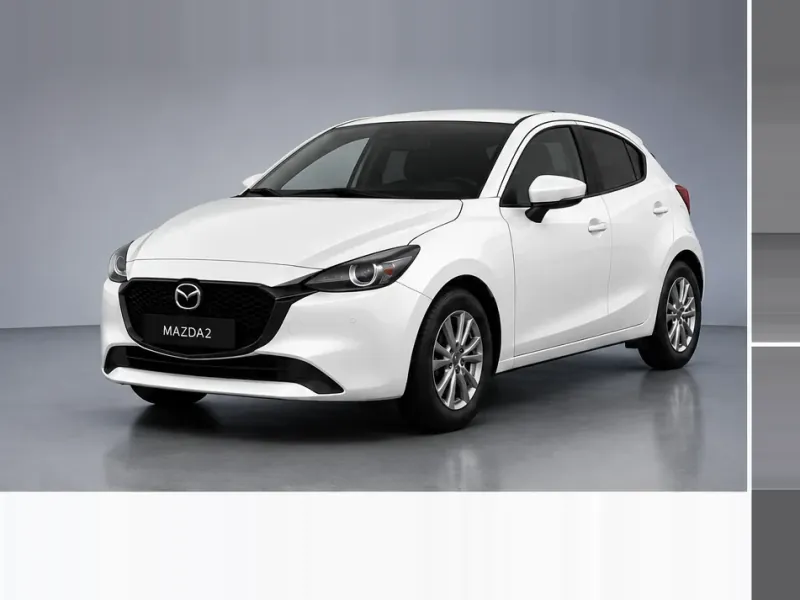
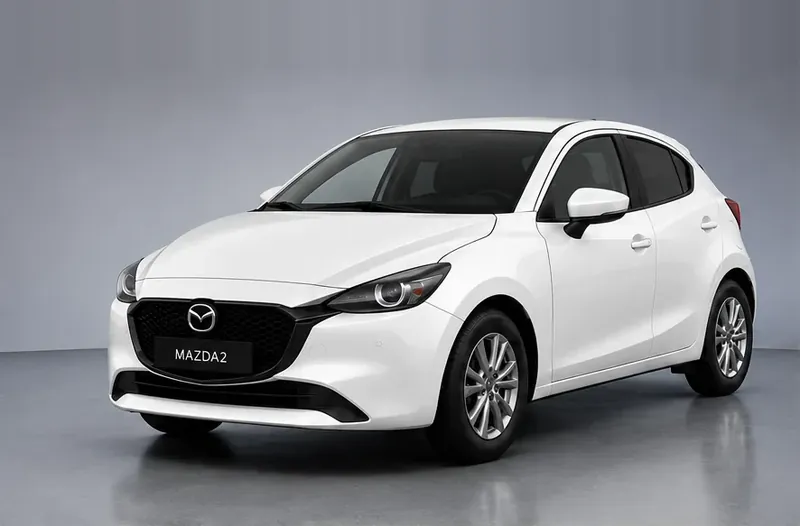
Revisión de las 15 fichas nuevas: versiones completas, Juke y tres portadas
Una revisión adversarial abrió las 15 fichas en producción y las comparó con
movilease.es. Precios, fotos y enlaces cuadraban en todas; esto no:

- SEAT León FR y CUPRA Formentor manual: su versión perdía el "110kW" que dice
  movilease ("1.5 TSI 110kW 150CV..."). Corregido en CARS, en sus fichas (meta,
  og, JSON-LD y cabecera) y en las tarjetas de relacionados que los nombran.
- Nissan Juke: la línea de datos decía 145CV y movilease y la tarjeta dicen 143.
- Portadas del Mazda 2, Hilux y Omoda 7: franjas de píxeles estirados abajo y a
  la derecha, recortadas igual que en movilease.es (mismo fichero en las dos).

Verificado: comprobar.js sin fallos.

diff --git a/sitio-nuevo/renting-seat-leon-fr/index.html b/sitio-nuevo/renting-seat-leon-fr/index.html
@@ -5,12 +5,12 @@
 <meta name="viewport" content="width=device-width, initial-scale=1.0">
 <link rel="preconnect" href="https://fonts.googleapis.com"><link rel="preconnect" href="https://fonts.gstatic.com" crossorigin><link href="https://fonts.googleapis.com/css2?family=Space+Grotesk:wght@400;500;600;700&family=Inter:wght@400;500;600;700&display=swap" rel="stylesheet">
 <title>Renting SEAT León FR | desde 357€/mes sin entrada</title>
-<meta name="description" content="Renting SEAT León FR sin entrada desde 357€/mes. 1.5 TSI 150CV FR Special Edition. Gasolina · Manual · 150CV. Seguro a todo riesgo, mantenimiento y asistencia 24h incluidos. Respuesta en 48h. Sin entrada. Toda España.">
+<meta name="description" content="Renting SEAT León FR sin entrada desde 357€/mes. 1.5 TSI 110kW 150CV FR Special Edition. Gasolina · Manual · 150CV. Seguro a todo riesgo, mantenimiento y asistencia 24h incluidos. Respuesta en 48h. Sin entrada. Toda España.">
 <meta name="robots" content="index, follow">
 <link rel="canonical" href="https://quierorenting.es/renting-seat-leon-fr/">
 <meta property="og:type" content="product">
 <meta property="og:title" content="Renting SEAT León FR | desde 357€/mes sin entrada">
-<meta property="og:description" content="Renting SEAT León FR sin entrada desde 357€/mes. 1.5 TSI 150CV FR Special Edition. Gasolina · Manual · 150CV. Seguro a todo riesgo, mantenimiento y asistencia 24h incluidos. Respuesta en 48h. Sin entrada. Toda España.">
+<meta property="og:description" content="Renting SEAT León FR sin entrada desde 357€/mes. 1.5 TSI 110kW 150CV FR Special Edition. Gasolina · Manual · 150CV. Seguro a todo riesgo, mantenimiento y asistencia 24h incluidos. Respuesta en 48h. Sin entrada. Toda España.">
 <meta property="og:image" content="https://quierorenting.es/fotos/seat-leon-fr-01.webp">
 <meta property="og:url" content="https://quierorenting.es/renting-seat-leon-fr/">
 <meta property="og:locale" content="es_ES">
@@ -19,7 +19,7 @@
   "@context": "https://schema.org",
   "@type": "Product",
   "name": "Renting SEAT León FR",
-  "description": "Renting SEAT León FR sin entrada desde 357€/mes. 1.5 TSI 150CV FR Special Edition. Gasolina · Manual · 150CV. Seguro a todo riesgo, mantenimiento y asistencia 24h incluidos. Respuesta en 48h. Sin entrada. Toda España.",
+  "description": "Renting SEAT León FR sin entrada desde 357€/mes. 1.5 TSI 110kW 150CV FR Special Edition. Gasolina · Manual · 150CV. Seguro a todo riesgo, mantenimiento y asistencia 24h incluidos. Respuesta en 48h. Sin entrada. Toda España.",
   "image": "https://quierorenting.es/fotos/seat-leon-fr-01.webp",
   "brand": {
     "@type": "Brand",
@@ -391,7 +391,7 @@ h1,h2,h3,.hero-title,.sec-header h2,.nav-logo,.logo,.footer-logo{
     <div class="fh-cuerpo">
       <p class="fh-marca">SEAT</p>
       <h1>Renting SEAT León FR para particulares</h1>
-      <p class="fh-version">1.5 TSI 150CV FR Special Edition</p>
+      <p class="fh-version">1.5 TSI 110kW 150CV FR Special Edition</p>
       <p class="fh-precio"><span>desde</span><b>357€</b><span>/mes</span></p>
       <p class="fh-nota">IVA incluido · Sin entrada · 10.000 km/año</p>
       <div class="fh-acc">
@@ -483,7 +483,7 @@ h1,h2,h3,.hero-title,.sec-header h2,.nav-logo,.logo,.footer-logo{
   <div class="card-body">
     <div class="card-brand">CUPRA</div>
     <div class="card-name">Formentor Manual<span class="badge-excl">SUV</span></div>
-    <div class="card-spec">1.5 TSI 150CV</div>
+    <div class="card-spec">1.5 TSI 110kW 150CV</div>
     <div class="card-pills">
       <span class="pill">⛽ Gasolina</span>
       <span class="pill">Manual</span>

diff --git a/sitio-nuevo/renting-cupra-formentor-manual/index.html b/sitio-nuevo/renting-cupra-formentor-manual/index.html
@@ -5,12 +5,12 @@
 <meta name="viewport" content="width=device-width, initial-scale=1.0">
 <link rel="preconnect" href="https://fonts.googleapis.com"><link rel="preconnect" href="https://fonts.gstatic.com" crossorigin><link href="https://fonts.googleapis.com/css2?family=Space+Grotesk:wght@400;500;600;700&family=Inter:wght@400;500;600;700&display=swap" rel="stylesheet">
 <title>Renting CUPRA Formentor manual | desde 359€/mes sin entrada</title>
-<meta name="description" content="Renting CUPRA Formentor manual sin entrada desde 359€/mes. 1.5 TSI 150CV. Gasolina · Manual · 150CV. Seguro a todo riesgo, mantenimiento y asistencia 24h incluidos. Respuesta en 48h. Sin entrada. Toda España.">
+<meta name="description" content="Renting CUPRA Formentor manual sin entrada desde 359€/mes. 1.5 TSI 110kW 150CV. Gasolina · Manual · 150CV. Seguro a todo riesgo, mantenimiento y asistencia 24h incluidos. Respuesta en 48h. Sin entrada. Toda España.">
 <meta name="robots" content="index, follow">
 <link rel="canonical" href="https://quierorenting.es/renting-cupra-formentor-manual/">
 <meta property="og:type" content="product">
 <meta property="og:title" content="Renting CUPRA Formentor manual | desde 359€/mes sin entrada">
-<meta property="og:description" content="Renting CUPRA Formentor manual sin entrada desde 359€/mes. 1.5 TSI 150CV. Gasolina · Manual · 150CV. Seguro a todo riesgo, mantenimiento y asistencia 24h incluidos. Respuesta en 48h. Sin entrada. Toda España.">
+<meta property="og:description" content="Renting CUPRA Formentor manual sin entrada desde 359€/mes. 1.5 TSI 110kW 150CV. Gasolina · Manual · 150CV. Seguro a todo riesgo, mantenimiento y asistencia 24h incluidos. Respuesta en 48h. Sin entrada. Toda España.">
 <meta property="og:image" content="https://quierorenting.es/fotos/cupra-formentor-manual-01.webp">
 <meta property="og:url" content="https://quierorenting.es/renting-cupra-formentor-manual/">
 <meta property="og:locale" content="es_ES">
@@ -19,7 +19,7 @@
   "@context": "https://schema.org",
   "@type": "Product",
   "name": "Renting CUPRA Formentor manual",
-  "description": "Renting CUPRA Formentor manual sin entrada desde 359€/mes. 1.5 TSI 150CV. Gasolina · Manual · 150CV. Seguro a todo riesgo, mantenimiento y asistencia 24h incluidos. Respuesta en 48h. Sin entrada. Toda España.",
+  "description": "Renting CUPRA Formentor manual sin entrada desde 359€/mes. 1.5 TSI 110kW 150CV. Gasolina · Manual · 150CV. Seguro a todo riesgo, mantenimiento y asistencia 24h incluidos. Respuesta en 48h. Sin entrada. Toda España.",
   "image": "https://quierorenting.es/fotos/cupra-formentor-manual-01.webp",
   "brand": {
     "@type": "Brand",
@@ -391,7 +391,7 @@ h1,h2,h3,.hero-title,.sec-header h2,.nav-logo,.logo,.footer-logo{
     <div class="fh-cuerpo">
       <p class="fh-marca">CUPRA</p>
       <h1>Renting CUPRA Formentor manual para particulares</h1>
-      <p class="fh-version">1.5 TSI 150CV</p>
+      <p class="fh-version">1.5 TSI 110kW 150CV</p>
       <p class="fh-precio"><span>desde</span><b>359€</b><span>/mes</span></p>
       <p class="fh-nota">IVA incluido · Sin entrada · 10.000 km/año</p>
       <div class="fh-acc">

diff --git a/sitio-nuevo/renting-nissan-juke/index.html b/sitio-nuevo/renting-nissan-juke/index.html
@@ -5,12 +5,12 @@
 <meta name="viewport" content="width=device-width, initial-scale=1.0">
 <link rel="preconnect" href="https://fonts.googleapis.com"><link rel="preconnect" href="https://fonts.gstatic.com" crossorigin><link href="https://fonts.googleapis.com/css2?family=Space+Grotesk:wght@400;500;600;700&family=Inter:wght@400;500;600;700&display=swap" rel="stylesheet">
 <title>Renting Nissan Juke | desde 386€/mes sin entrada</title>
-<meta name="description" content="Renting Nissan Juke sin entrada desde 386€/mes. 1.6 Hybrid 145CV N-Connecta. Híbrido · Automático · 145CV. Seguro a todo riesgo, mantenimiento y asistencia 24h incluidos. Respuesta en 48h. Sin entrada. Toda España.">
+<meta name="description" content="Renting Nissan Juke sin entrada desde 386€/mes. 1.6 Hybrid 145CV N-Connecta. Híbrido · Automático · 143CV. Seguro a todo riesgo, mantenimiento y asistencia 24h incluidos. Respuesta en 48h. Sin entrada. Toda España.">
 <meta name="robots" content="index, follow">
 <link rel="canonical" href="https://quierorenting.es/renting-nissan-juke/">
 <meta property="og:type" content="product">
 <meta property="og:title" content="Renting Nissan Juke | desde 386€/mes sin entrada">
-<meta property="og:description" content="Renting Nissan Juke sin entrada desde 386€/mes. 1.6 Hybrid 145CV N-Connecta. Híbrido · Automático · 145CV. Seguro a todo riesgo, mantenimiento y asistencia 24h incluidos. Respuesta en 48h. Sin entrada. Toda España.">
+<meta property="og:description" content="Renting Nissan Juke sin entrada desde 386€/mes. 1.6 Hybrid 145CV N-Connecta. Híbrido · Automático · 143CV. Seguro a todo riesgo, mantenimiento y asistencia 24h incluidos. Respuesta en 48h. Sin entrada. Toda España.">
 <meta property="og:image" content="https://quierorenting.es/fotos/nissan-juke.jpg">
 <meta property="og:url" content="https://quierorenting.es/renting-nissan-juke/">
 <meta property="og:locale" content="es_ES">
@@ -19,7 +19,7 @@
   "@context": "https://schema.org",
   "@type": "Product",
   "name": "Renting Nissan Juke",
-  "description": "Renting Nissan Juke sin entrada desde 386€/mes. 1.6 Hybrid 145CV N-Connecta. Híbrido · Automático · 145CV. Seguro a todo riesgo, mantenimiento y asistencia 24h incluidos. Respuesta en 48h. Sin entrada. Toda España.",
+  "description": "Renting Nissan Juke sin entrada desde 386€/mes. 1.6 Hybrid 145CV N-Connecta. Híbrido · Automático · 143CV. Seguro a todo riesgo, mantenimiento y asistencia 24h incluidos. Respuesta en 48h. Sin entrada. Toda España.",
   "image": "https://quierorenting.es/fotos/nissan-juke.jpg",
   "brand": {
     "@type": "Brand",

diff --git a/sitio-nuevo/index.html b/sitio-nuevo/index.html
@@ -1467,9 +1467,9 @@ const CARS = [
   {b:'Mazda',m:'2',s:'1.5 85kW 116CV CVT Centre-line',t:'Compacto',fuel:'Gasolina',g:'Automático',p:343,cv:116,cons:'4,7',plazas:5,img:'fotos/mazda-2-01.webp',cat:'turismo',feat:false,badge:null,meses:60},{b:'Mazda',m:'3',s:'2.5L e-SKY G MHEV 103kW 140CV Prime-line',t:'Compacto',fuel:'Híbrido',g:'Automático',p:322,cv:140,cons:'5,5',plazas:5,img:'fotos/mazda-3-01.webp',cat:'hibrido',feat:true,badge:'Híbrido',meses:60},{b:'Mazda',m:'CX-30',s:'e-SKYACTIV G MHEV 140CV MT',t:'SUV',fuel:'Híbrido',g:'Manual',p:357,cv:140,cons:'—',plazas:5,img:'fotos/mazda-cx-30-01.webp',cat:'hibrido',feat:true,badge:'Híbrido',meses:36},{b:'Mazda',m:'CX-5',s:'2.5 Sky MHEV 141CV AT FWD Centre-Line',t:'SUV',fuel:'Híbrido',g:'Automático',p:489,cv:141,cons:'6,9',plazas:5,img:'fotos/mazda-cx-5-01.webp',cat:'suv',feat:false,badge:'SUV',meses:60},
   
   {b:'Volkswagen',m:'Taigo',s:'1.0 TSI 70kW 95CV',t:'SUV',fuel:'Gasolina',g:'Manual',p:356,cv:95,cons:'—',plazas:5,img:'fotos/vw-taigo-01.webp',cat:'suv',feat:true,badge:'SUV',meses:60},
-  {b:'SEAT',m:'León FR',s:'1.5 TSI 150CV FR Special Edition',t:'Compacto',fuel:'Gasolina',g:'Manual',p:357,cv:150,cons:'—',plazas:5,img:'fotos/seat-leon-fr-01.webp',cat:'turismo',feat:false,badge:null,meses:60},
+  {b:'SEAT',m:'León FR',s:'1.5 TSI 110kW 150CV FR Special Edition',t:'Compacto',fuel:'Gasolina',g:'Manual',p:357,cv:150,cons:'—',plazas:5,img:'fotos/seat-leon-fr-01.webp',cat:'turismo',feat:false,badge:null,meses:60},
   {b:'Cupra',m:'Formentor',s:'1.5 eTSI 150CV DSG',t:'SUV',fuel:'Gasolina',g:'Automático',p:428,cv:150,cons:'—',plazas:5,img:'fotos/cupra-formentor-01.webp',cat:'turismo',feat:true,badge:'SUV',oferta:false,meses:36},
-{b:'Cupra',m:'Formentor Manual',s:'1.5 TSI 150CV',t:'SUV',fuel:'Gasolina',g:'Manual',p:359,cv:150,cons:'—',plazas:5,img:'fotos/cupra-formentor-manual-01.webp',cat:'turismo',feat:false,badge:'SUV',oferta:true,meses:36},
+{b:'Cupra',m:'Formentor Manual',s:'1.5 TSI 110kW 150CV',t:'SUV',fuel:'Gasolina',g:'Manual',p:359,cv:150,cons:'—',plazas:5,img:'fotos/cupra-formentor-manual-01.webp',cat:'turismo',feat:false,badge:'SUV',oferta:true,meses:36},
   
   {b:'Nissan',m:'Qashqai',s:'DIG-T 103kW 140CV mHEV 4x2 Acenta',t:'SUV',fuel:'Gasolina',g:'Manual',p:381,cv:140,cons:'—',plazas:5,img:'fotos/nissan-qashqai-01.webp',cat:'suv',feat:false,badge:'SUV',meses:60,oferta:true},
   {b:'Audi',m:'A1',s:'Sportback Adrenalin 30 TFSI 85 kW (115 CV) S tronic',t:'Compacto',fuel:'Gasolina',g:'Automático',p:375,cv:115,cons:'—',plazas:5,img:'fotos/audi-a1-01.webp',cat:'turismo',feat:false,badge:null,meses:36},

diff --git a/sitio-nuevo/renting-seat-leon/index.html b/sitio-nuevo/renting-seat-leon/index.html
@@ -464,7 +464,7 @@ h1,h2,h3,.hero-title,.sec-header h2,.nav-logo,.logo,.footer-logo{
   <div class="card-body">
     <div class="card-brand">SEAT</div>
     <div class="card-name">León FR<span class="badge-excl">Compacto</span></div>
-    <div class="card-spec">1.5 TSI 150CV FR Special Edition</div>
+    <div class="card-spec">1.5 TSI 110kW 150CV FR Special Edition</div>
     <div class="card-pills">
       <span class="pill">⛽ Gasolina</span>
       <span class="pill">Manual</span>

diff --git a/sitio-nuevo/renting-cupra-formentor/index.html b/sitio-nuevo/renting-cupra-formentor/index.html
@@ -464,7 +464,7 @@ h1,h2,h3,.hero-title,.sec-header h2,.nav-logo,.logo,.footer-logo{
   <div class="card-body">
     <div class="card-brand">CUPRA</div>
     <div class="card-name">Formentor Manual<span class="badge-excl">SUV</span></div>
-    <div class="card-spec">1.5 TSI 150CV</div>
+    <div class="card-spec">1.5 TSI 110kW 150CV</div>
     <div class="card-pills">
       <span class="pill">⛽ Gasolina</span>
       <span class="pill">Manual</span>
